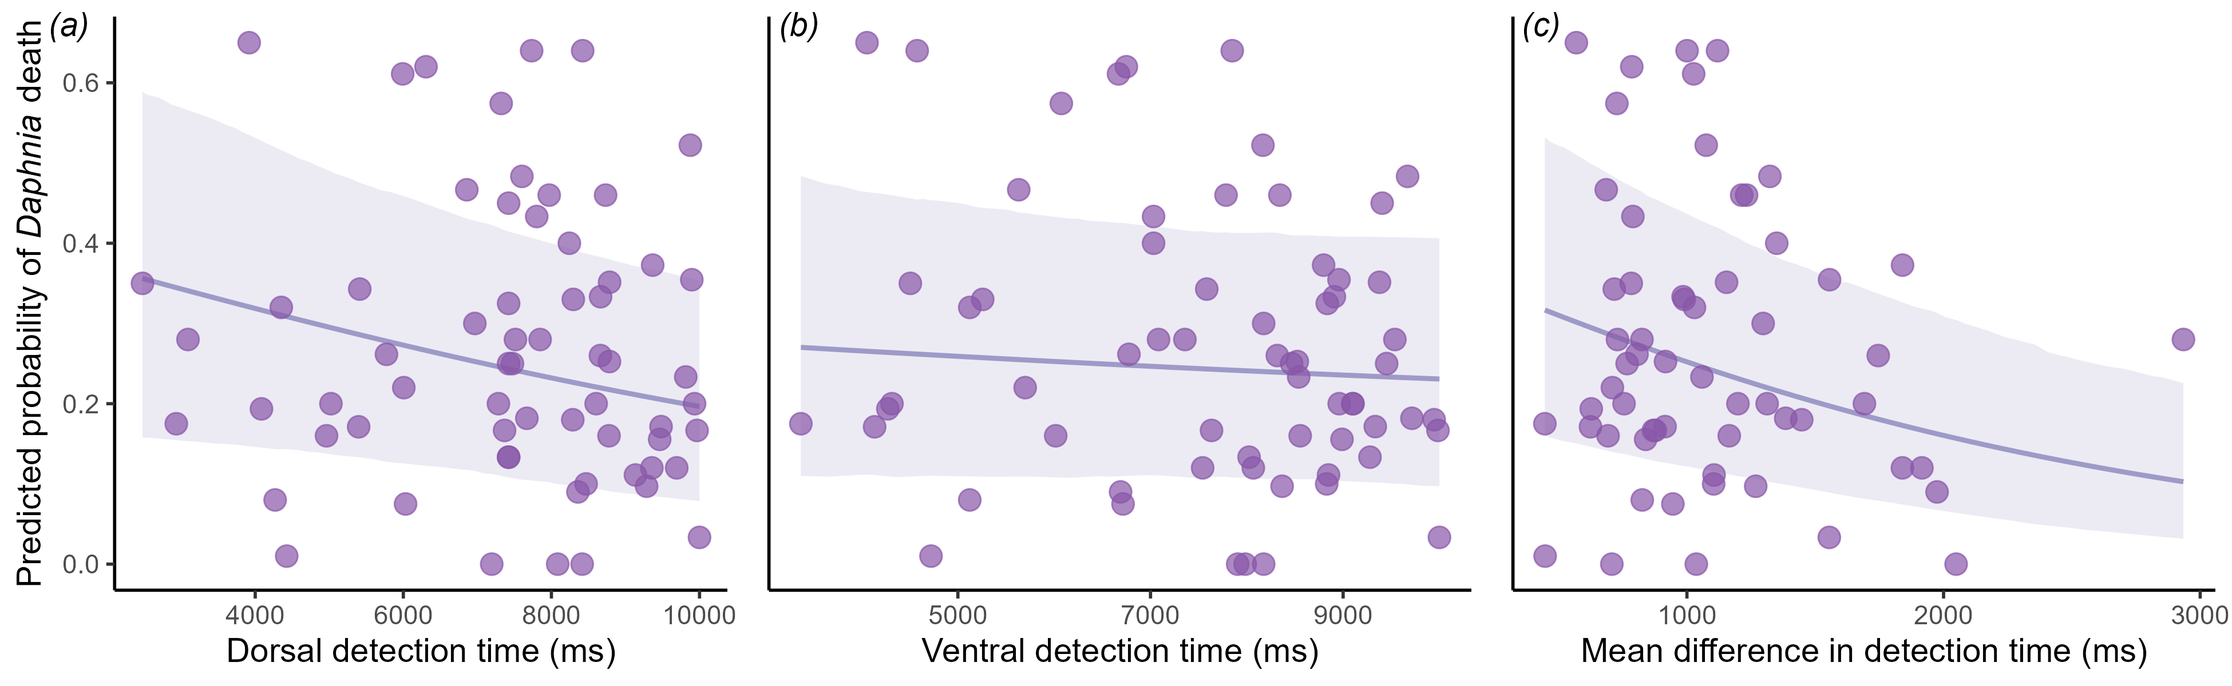
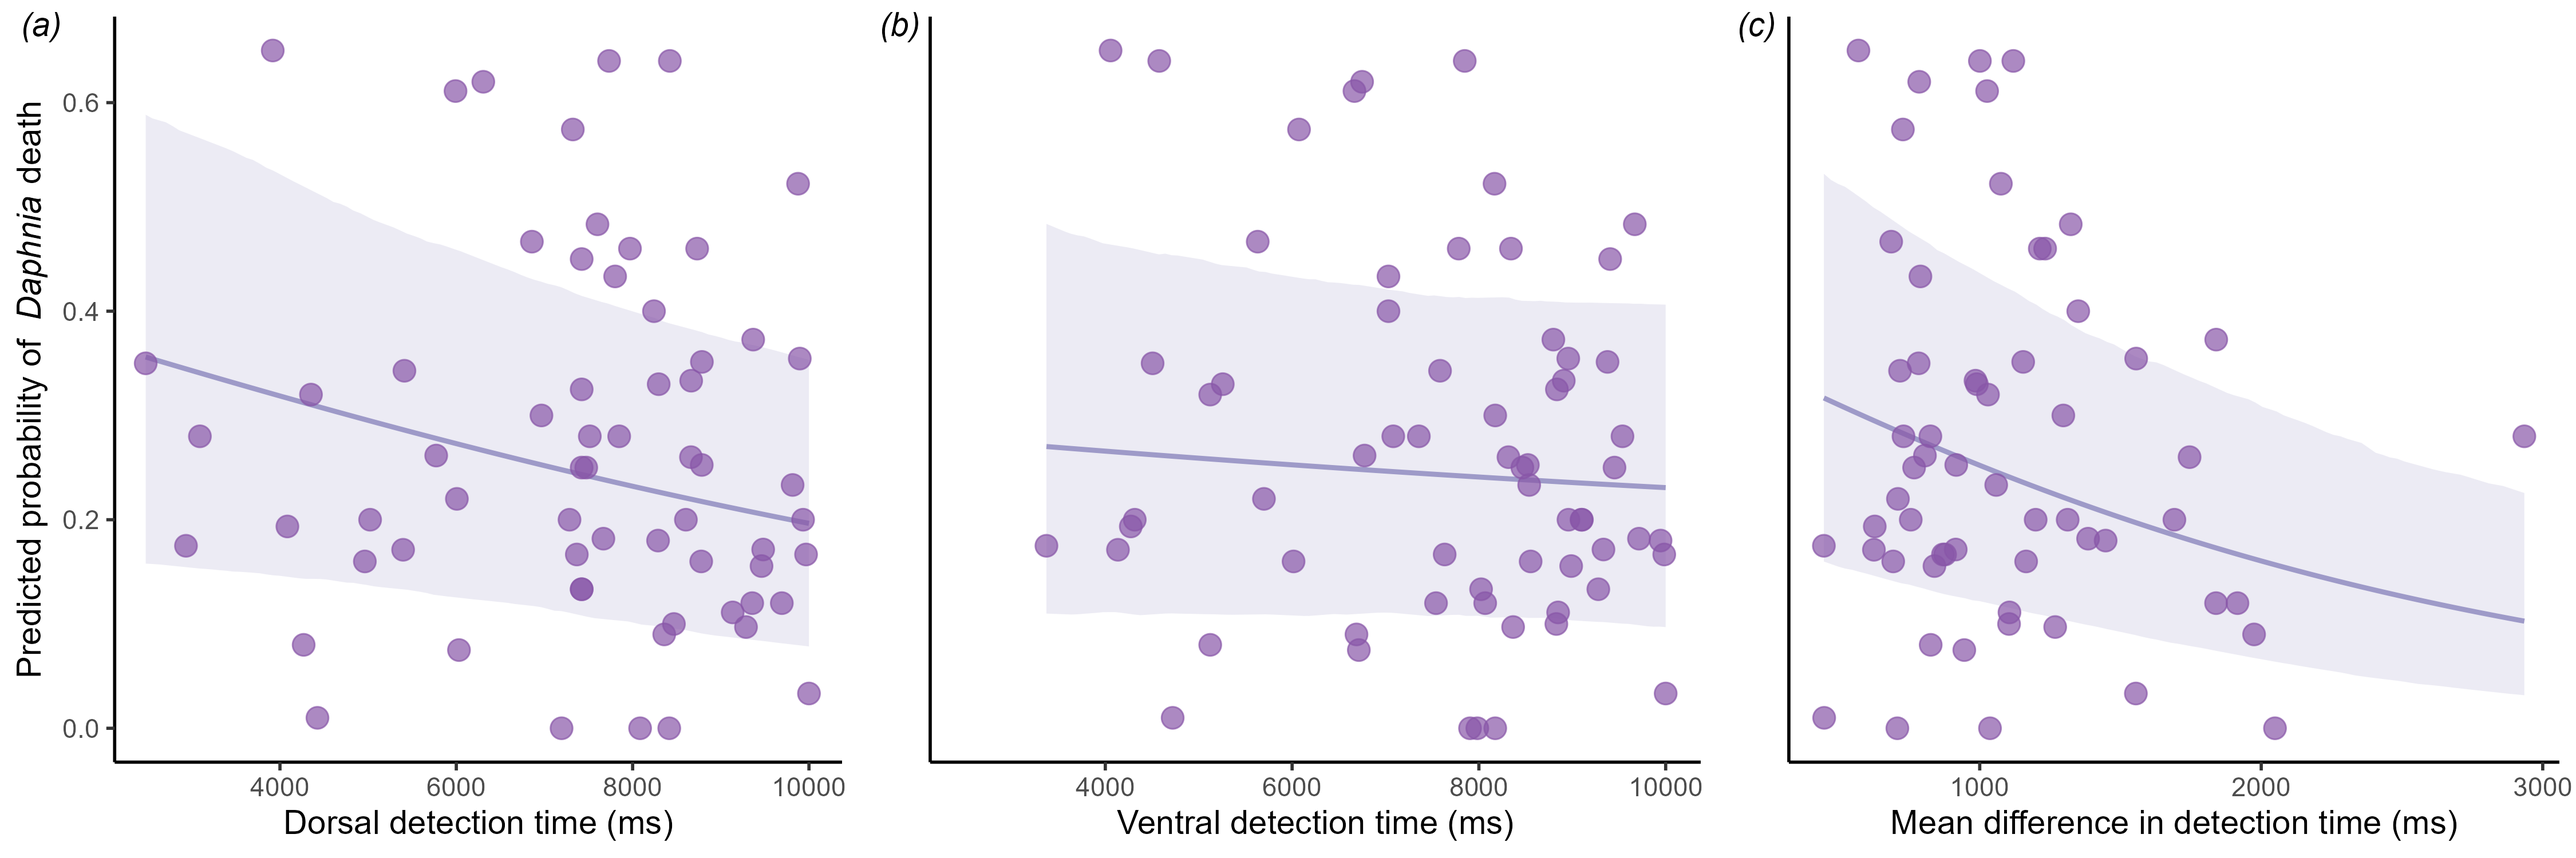
fixed x axis of figure 4

diff --git a/README.md b/README.md
@@ -33,6 +33,7 @@ the folder `output` contains:
 - Phylogenetic tree plotting genus effect on toxicity
 - 3 png plots with the predicted probability of Daphnia death (analysing correlating detection time and number of plays)
 - 1 png plot that joins the previous 3 plots
+- 1 png plot that plots the raw Daphnia death
 
 ## 4. **R** 
 the folder `R` contains:
